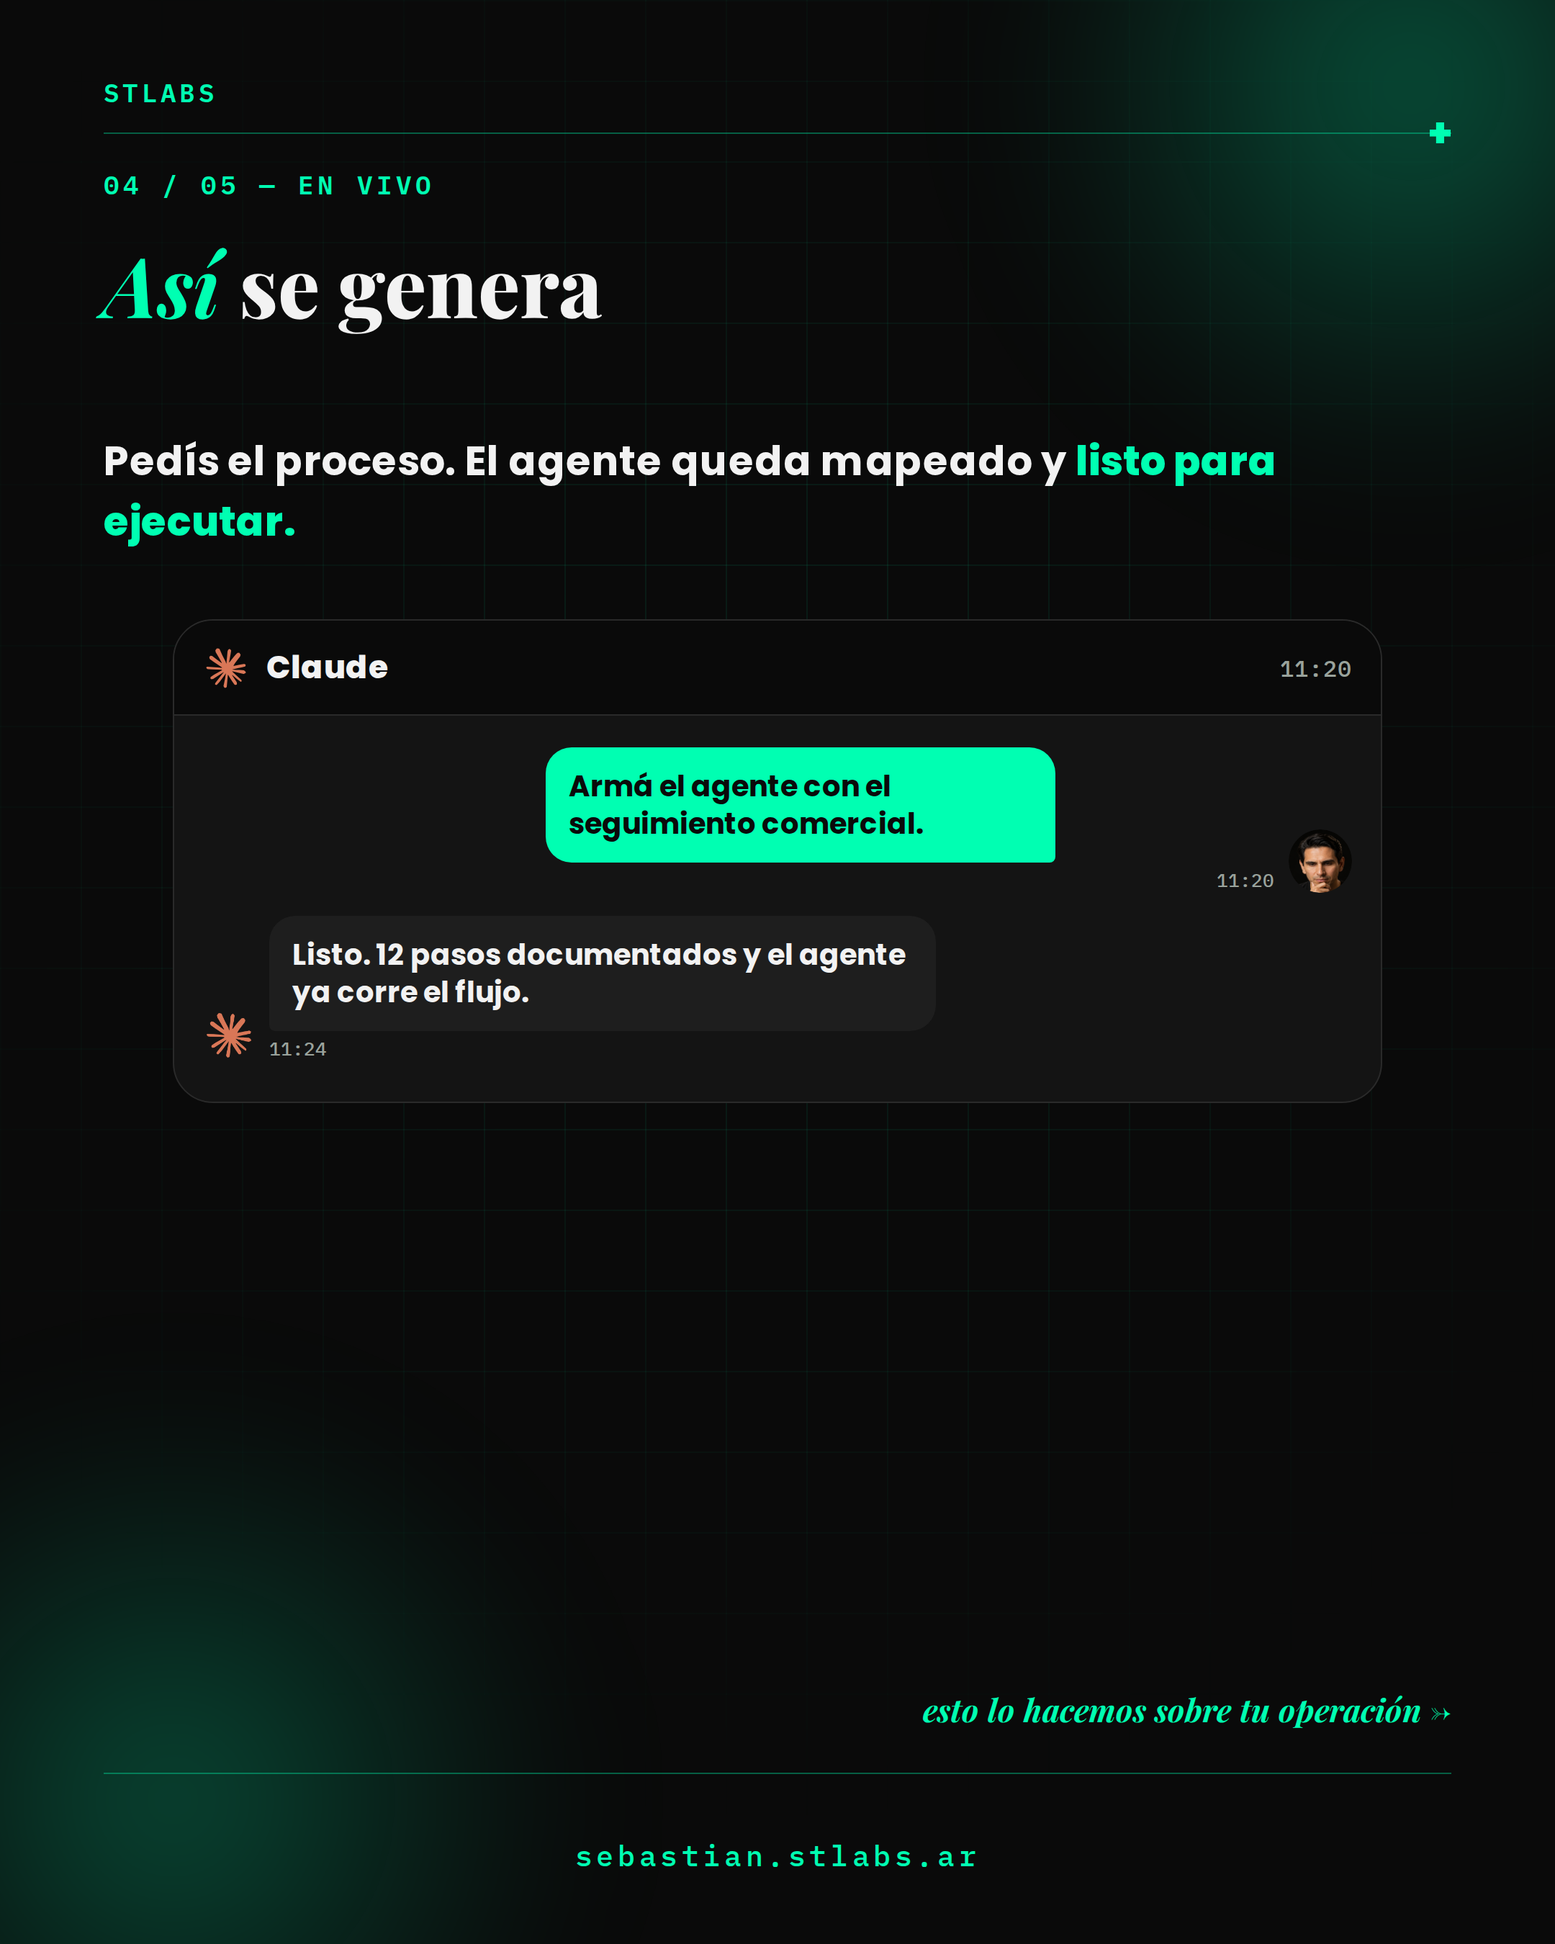
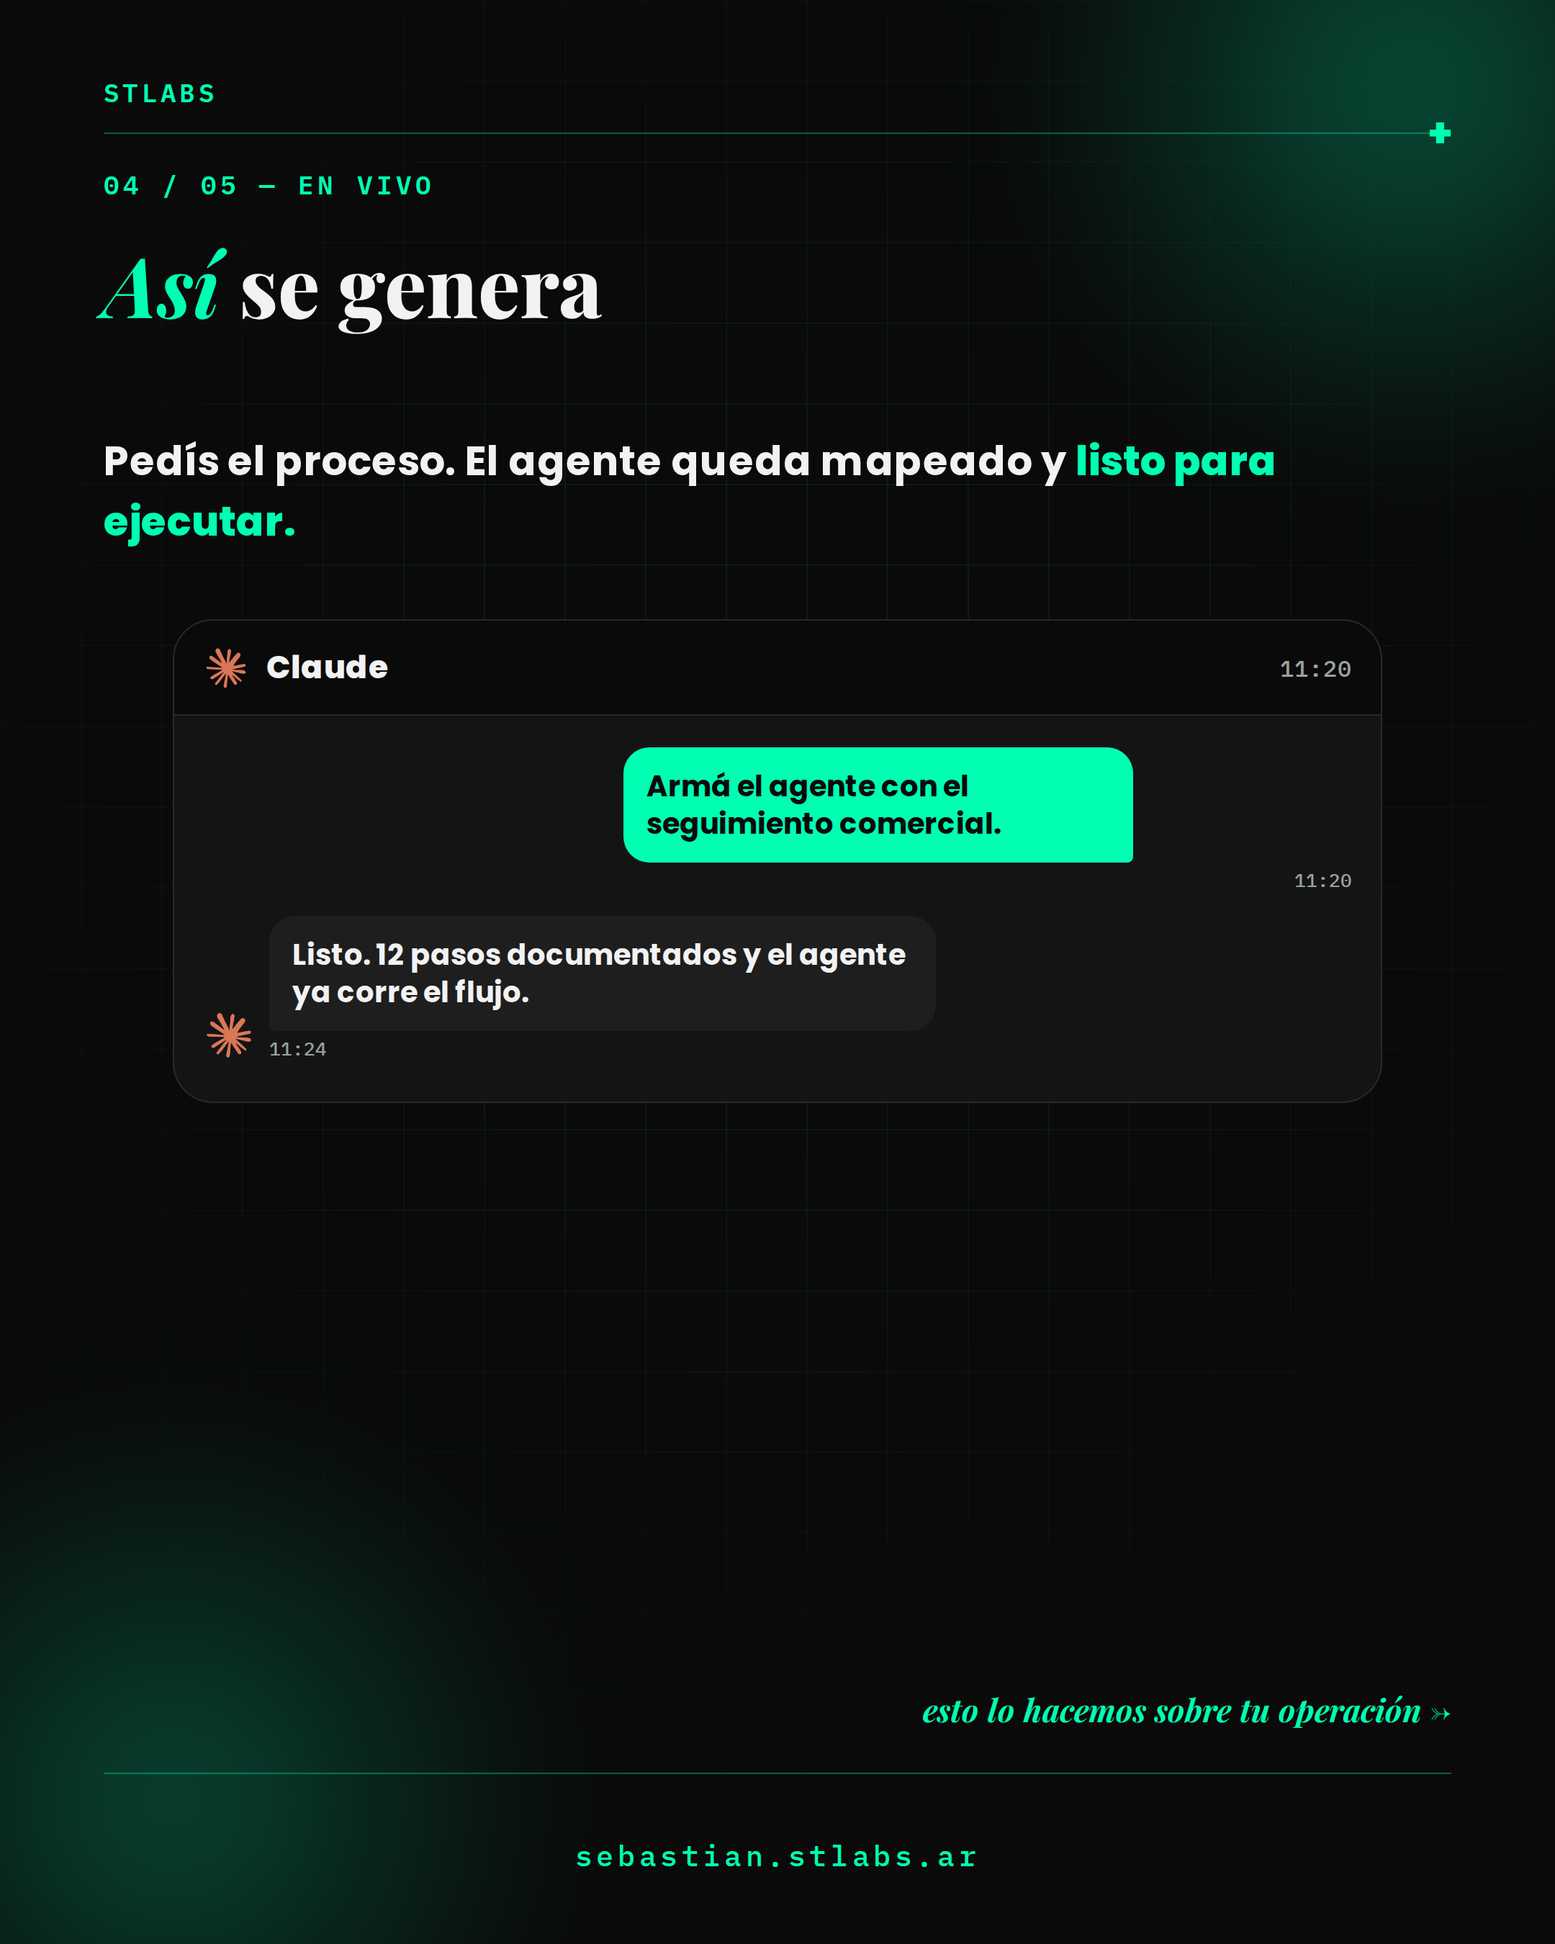
Quitar la cara de Sebastián del recuadro verde del chat

Changed region(s): [[0.3412, 0.3733, 0.7444, 0.4667], [0.8375, 0.4356, 0.8685, 0.4667]]

diff --git a/resultados/2026-08-18-nueva-forma-agentes/carrusel.html b/resultados/2026-08-18-nueva-forma-agentes/carrusel.html
@@ -238,4 +238,4 @@ html, body { background:#000; }
 }
 .send em { font-style:normal; color:#00FFB2; }
 </style></head>
-<body><div class="sheet"><section class="slide" data-id="01"><div class="tex"></div><div class="glow glow-tr"></div><div class="glow glow-bl"></div><div class="hline top"></div><div class="brand">STLabs</div><div class="kicker">01 / 05</div><div class="pill"><i></i>A medida</div><div class="firma">sebastian.stlabs.ar</div><div class="hero"></div><div class="hero-fade"></div><h1 class="display"><em>Así se genera</em><br>un agente<br><em>a medida.</em></h1><div class="clip dude"><div class="corners"><span class="tl"></span><span class="tr"></span><span class="bl"></span><span class="br"></span></div><img src="file:///workspace/builds/2026-08-18-nueva-forma-agentes/assets/pixel-dude.png" alt=""></div><div class="clip cf"><img class="claude" src="file:///workspace/builds/2026-08-18-nueva-forma-agentes/assets/claude.png" width="96" height="96" alt="" style="width:96px;height:96px;object-fit:contain;"></div><div class="cta-side">primero el proceso →</div></section><section class="slide" data-id="02"><div class="tex"></div><div class="glow glow-tr"></div><div class="glow glow-bl"></div><div class="hline top"></div><div class="hline bot"></div><div class="brand">STLabs</div><div class="plus">+</div><div class="kicker">01 / 05 — El proceso</div><div class="firma">sebastian.stlabs.ar</div><h1 class="h2">Los <em>3</em> pasos</h1><p class="sub">para generar un agente que arme tu operación.</p><div class="cards"><div class="card"><img src="file:///workspace/builds/2026-08-18-nueva-forma-agentes/assets/pixel-wrench.png" alt=""><div class="div"></div><div><h3>Mapear la operación</h3><p>Sacamos de tu cabeza cada paso, dueño y excepción.</p></div></div><div class="card"><img src="file:///workspace/builds/2026-08-18-nueva-forma-agentes/assets/pixel-cost.png" alt=""><div class="div"></div><div><h3>Documentar el flujo</h3><p>Queda escrito, claro y delegable. Sin improvisar.</p></div></div><div class="card"><img src="file:///workspace/builds/2026-08-18-nueva-forma-agentes/assets/pixel-bell.png" alt=""><div class="div"></div><div><h3>Generar el agente</h3><p>Lo armamos sobre ESE proceso, no sobre uno genérico.</p></div></div></div><div class="cta-side">y casi todos se saltean el primero →</div></section><section class="slide" data-id="03"><div class="tex"></div><div class="glow glow-tr"></div><div class="glow glow-bl"></div><div class="hline top"></div><div class="hline bot"></div><div class="brand">STLabs</div><div class="plus">+</div><div class="kicker">02 / 05 — Lo que se saltea</div><div class="firma">sebastian.stlabs.ar</div><h1 class="h2">Lo que casi<br><em>nadie</em> hace</h1><p class="sub">arrancan el agente sin mapa… y después <b style="color:#00FFB2">no escala.</b></p><div class="bubble">Poné un agente y que resuelva. El proceso lo vemos después.</div><div class="tag80"><i></i>9 de 10</div><div class="metric"><div class="lab">Primera sesión de mapeo · 1 operación</div><div class="num">12<span>pasos</span></div><div class="foot">y de ese mapa nace el agente</div></div><div class="cta-side">el método correcto es al revés →</div></section><section class="slide" data-id="04"><div class="tex"></div><div class="glow glow-tr"></div><div class="glow glow-bl"></div><div class="hline top"></div><div class="hline bot"></div><div class="brand">STLabs</div><div class="plus">+</div><div class="kicker">03 / 05 — El método</div><div class="firma">sebastian.stlabs.ar</div><h1 class="h2">El <em>método</em></h1><p class="sub">Primero el mapa. Después se genera el agente.</p><div class="eq"><div class="eq-item"><div class="eq-box"><svg viewBox="0 0 64 64" width="88" height="88"><rect x="8" y="8" width="48" height="14" rx="4" fill="none" stroke="#00FFB2" stroke-width="3"/><rect x="8" y="28" width="30" height="14" rx="4" fill="none" stroke="#00FFB2" stroke-width="3"/><rect x="8" y="48" width="40" height="14" rx="4" fill="none" stroke="#00FFB2" stroke-width="3"/><path d="M32 22v6M23 42v6" fill="none" stroke="#00FFB2" stroke-width="3"/></svg></div><strong>El mapa</strong><em>tu operación</em></div><div class="plus-lg">+</div><div class="eq-item"><div class="eq-box"><img class="claude" src="file:///workspace/builds/2026-08-18-nueva-forma-agentes/assets/claude.png" width="96" height="96" alt="" style="width:96px;height:96px;object-fit:contain;"></div><strong>Claude</strong><em>lo genera</em></div></div><div class="result">= tu agente a medida</div><div class="cta-side">así se ve cuando lo pedís →</div></section><section class="slide" data-id="05"><div class="tex"></div><div class="glow glow-tr"></div><div class="glow glow-bl"></div><div class="hline top"></div><div class="hline bot"></div><div class="brand">STLabs</div><div class="plus">+</div><div class="kicker">04 / 05 — En vivo</div><div class="firma">sebastian.stlabs.ar</div><h1 class="h2"><em>Así</em> se genera</h1><p class="sub">Pedís el proceso. El agente queda mapeado y <b style="color:#00FFB2">listo para ejecutar.</b></p><div class="phone"><div class="ph-head"><img class="claude" src="file:///workspace/builds/2026-08-18-nueva-forma-agentes/assets/claude.png" width="32" height="32" alt="" style="width:32px;height:32px;object-fit:contain;"><div class="nm">Claude</div><div class="hr">11:20</div></div><div class="ph-body"><div class="row me"><div><div class="bubble-u">Armá el agente con el seguimiento comercial.</div><div class="ts" style="text-align:right">11:20</div></div><img class="av" src="file:///workspace/builds/2026-08-18-nueva-forma-agentes/assets/sebas-avatar.png" alt=""></div><div class="row"><img class="claude" src="file:///workspace/builds/2026-08-18-nueva-forma-agentes/assets/claude.png" width="36" height="36" alt="" style="width:36px;height:36px;object-fit:contain;"><div><div class="bubble-a">Listo. 12 pasos documentados y el agente ya corre el flujo.</div><div class="ts">11:24</div></div></div></div></div><div class="cta-side">esto lo hacemos sobre tu operación →</div></section><section class="slide" data-id="06"><div class="tex"></div><div class="glow glow-tr"></div><div class="glow glow-bl"></div><div class="hline top"></div><div class="hline bot"></div><div class="brand">STLabs</div><div class="kicker"></div><div class="pill"><i></i>A medida</div><div class="firma">sebastian.stlabs.ar</div><h1 class="ask">¿Querés que te genere<br>el <em>agente</em> a medida?</h1><p class="pre">Mapeo tu operación, documento el flujo y te dejo el agente personalizado listo.</p><div class="kwbox"><span>PROCESO</span></div><div class="bottom-row"><div class="send">Comentá <em>PROCESO</em> y arrancamos la generación <em>→</em></div></div></section></div></body></html>
+<body><div class="sheet"><section class="slide" data-id="01"><div class="tex"></div><div class="glow glow-tr"></div><div class="glow glow-bl"></div><div class="hline top"></div><div class="brand">STLabs</div><div class="kicker">01 / 05</div><div class="pill"><i></i>A medida</div><div class="firma">sebastian.stlabs.ar</div><div class="hero"></div><div class="hero-fade"></div><h1 class="display"><em>Así se genera</em><br>un agente<br><em>a medida.</em></h1><div class="clip dude"><div class="corners"><span class="tl"></span><span class="tr"></span><span class="bl"></span><span class="br"></span></div><img src="file:///workspace/builds/2026-08-18-nueva-forma-agentes/assets/pixel-dude.png" alt=""></div><div class="clip cf"><img class="claude" src="file:///workspace/builds/2026-08-18-nueva-forma-agentes/assets/claude.png" width="96" height="96" alt="" style="width:96px;height:96px;object-fit:contain;"></div><div class="cta-side">primero el proceso →</div></section><section class="slide" data-id="02"><div class="tex"></div><div class="glow glow-tr"></div><div class="glow glow-bl"></div><div class="hline top"></div><div class="hline bot"></div><div class="brand">STLabs</div><div class="plus">+</div><div class="kicker">01 / 05 — El proceso</div><div class="firma">sebastian.stlabs.ar</div><h1 class="h2">Los <em>3</em> pasos</h1><p class="sub">para generar un agente que arme tu operación.</p><div class="cards"><div class="card"><img src="file:///workspace/builds/2026-08-18-nueva-forma-agentes/assets/pixel-wrench.png" alt=""><div class="div"></div><div><h3>Mapear la operación</h3><p>Sacamos de tu cabeza cada paso, dueño y excepción.</p></div></div><div class="card"><img src="file:///workspace/builds/2026-08-18-nueva-forma-agentes/assets/pixel-cost.png" alt=""><div class="div"></div><div><h3>Documentar el flujo</h3><p>Queda escrito, claro y delegable. Sin improvisar.</p></div></div><div class="card"><img src="file:///workspace/builds/2026-08-18-nueva-forma-agentes/assets/pixel-bell.png" alt=""><div class="div"></div><div><h3>Generar el agente</h3><p>Lo armamos sobre ESE proceso, no sobre uno genérico.</p></div></div></div><div class="cta-side">y casi todos se saltean el primero →</div></section><section class="slide" data-id="03"><div class="tex"></div><div class="glow glow-tr"></div><div class="glow glow-bl"></div><div class="hline top"></div><div class="hline bot"></div><div class="brand">STLabs</div><div class="plus">+</div><div class="kicker">02 / 05 — Lo que se saltea</div><div class="firma">sebastian.stlabs.ar</div><h1 class="h2">Lo que casi<br><em>nadie</em> hace</h1><p class="sub">arrancan el agente sin mapa… y después <b style="color:#00FFB2">no escala.</b></p><div class="bubble">Poné un agente y que resuelva. El proceso lo vemos después.</div><div class="tag80"><i></i>9 de 10</div><div class="metric"><div class="lab">Primera sesión de mapeo · 1 operación</div><div class="num">12<span>pasos</span></div><div class="foot">y de ese mapa nace el agente</div></div><div class="cta-side">el método correcto es al revés →</div></section><section class="slide" data-id="04"><div class="tex"></div><div class="glow glow-tr"></div><div class="glow glow-bl"></div><div class="hline top"></div><div class="hline bot"></div><div class="brand">STLabs</div><div class="plus">+</div><div class="kicker">03 / 05 — El método</div><div class="firma">sebastian.stlabs.ar</div><h1 class="h2">El <em>método</em></h1><p class="sub">Primero el mapa. Después se genera el agente.</p><div class="eq"><div class="eq-item"><div class="eq-box"><svg viewBox="0 0 64 64" width="88" height="88"><rect x="8" y="8" width="48" height="14" rx="4" fill="none" stroke="#00FFB2" stroke-width="3"/><rect x="8" y="28" width="30" height="14" rx="4" fill="none" stroke="#00FFB2" stroke-width="3"/><rect x="8" y="48" width="40" height="14" rx="4" fill="none" stroke="#00FFB2" stroke-width="3"/><path d="M32 22v6M23 42v6" fill="none" stroke="#00FFB2" stroke-width="3"/></svg></div><strong>El mapa</strong><em>tu operación</em></div><div class="plus-lg">+</div><div class="eq-item"><div class="eq-box"><img class="claude" src="file:///workspace/builds/2026-08-18-nueva-forma-agentes/assets/claude.png" width="96" height="96" alt="" style="width:96px;height:96px;object-fit:contain;"></div><strong>Claude</strong><em>lo genera</em></div></div><div class="result">= tu agente a medida</div><div class="cta-side">así se ve cuando lo pedís →</div></section><section class="slide" data-id="05"><div class="tex"></div><div class="glow glow-tr"></div><div class="glow glow-bl"></div><div class="hline top"></div><div class="hline bot"></div><div class="brand">STLabs</div><div class="plus">+</div><div class="kicker">04 / 05 — En vivo</div><div class="firma">sebastian.stlabs.ar</div><h1 class="h2"><em>Así</em> se genera</h1><p class="sub">Pedís el proceso. El agente queda mapeado y <b style="color:#00FFB2">listo para ejecutar.</b></p><div class="phone"><div class="ph-head"><img class="claude" src="file:///workspace/builds/2026-08-18-nueva-forma-agentes/assets/claude.png" width="32" height="32" alt="" style="width:32px;height:32px;object-fit:contain;"><div class="nm">Claude</div><div class="hr">11:20</div></div><div class="ph-body"><div class="row me"><div><div class="bubble-u">Armá el agente con el seguimiento comercial.</div><div class="ts" style="text-align:right">11:20</div></div></div><div class="row"><img class="claude" src="file:///workspace/builds/2026-08-18-nueva-forma-agentes/assets/claude.png" width="36" height="36" alt="" style="width:36px;height:36px;object-fit:contain;"><div><div class="bubble-a">Listo. 12 pasos documentados y el agente ya corre el flujo.</div><div class="ts">11:24</div></div></div></div></div><div class="cta-side">esto lo hacemos sobre tu operación →</div></section><section class="slide" data-id="06"><div class="tex"></div><div class="glow glow-tr"></div><div class="glow glow-bl"></div><div class="hline top"></div><div class="hline bot"></div><div class="brand">STLabs</div><div class="kicker"></div><div class="pill"><i></i>A medida</div><div class="firma">sebastian.stlabs.ar</div><h1 class="ask">¿Querés que te genere<br>el <em>agente</em> a medida?</h1><p class="pre">Mapeo tu operación, documento el flujo y te dejo el agente personalizado listo.</p><div class="kwbox"><span>PROCESO</span></div><div class="bottom-row"><div class="send">Comentá <em>PROCESO</em> y arrancamos la generación <em>→</em></div></div></section></div></body></html>

diff --git a/builds/2026-08-18-nueva-forma-agentes/generate.py b/builds/2026-08-18-nueva-forma-agentes/generate.py
@@ -371,7 +371,6 @@ def slide_04() -> str:
 
 
 def slide_05() -> str:
-    av = uri(A / "sebas-avatar.png")
     return (
         '<section class="slide" data-id="05">'
         + chrome("04 / 05 — En vivo")
@@ -380,7 +379,7 @@ def slide_05() -> str:
         + '<div class="phone"><div class="ph-head">'
         f'{claude_img(32)}<div class="nm">Claude</div><div class="hr">11:20</div></div>'
         '<div class="ph-body">'
-        f'<div class="row me"><div><div class="bubble-u">Armá el agente con el seguimiento comercial.</div><div class="ts" style="text-align:right">11:20</div></div><img class="av" src="{av}" alt=""></div>'
+        '<div class="row me"><div><div class="bubble-u">Armá el agente con el seguimiento comercial.</div><div class="ts" style="text-align:right">11:20</div></div></div>'
         f'<div class="row">{claude_img(36)}<div><div class="bubble-a">Listo. 12 pasos documentados y el agente ya corre el flujo.</div><div class="ts">11:24</div></div></div>'
         "</div></div>"
         + '<div class="cta-side">esto lo hacemos sobre tu operación →</div>'

diff --git a/resultados/2026-08-18-nueva-forma-agentes/generate.py b/resultados/2026-08-18-nueva-forma-agentes/generate.py
@@ -371,7 +371,6 @@ def slide_04() -> str:
 
 
 def slide_05() -> str:
-    av = uri(A / "sebas-avatar.png")
     return (
         '<section class="slide" data-id="05">'
         + chrome("04 / 05 — En vivo")
@@ -380,7 +379,7 @@ def slide_05() -> str:
         + '<div class="phone"><div class="ph-head">'
         f'{claude_img(32)}<div class="nm">Claude</div><div class="hr">11:20</div></div>'
         '<div class="ph-body">'
-        f'<div class="row me"><div><div class="bubble-u">Armá el agente con el seguimiento comercial.</div><div class="ts" style="text-align:right">11:20</div></div><img class="av" src="{av}" alt=""></div>'
+        '<div class="row me"><div><div class="bubble-u">Armá el agente con el seguimiento comercial.</div><div class="ts" style="text-align:right">11:20</div></div></div>'
         f'<div class="row">{claude_img(36)}<div><div class="bubble-a">Listo. 12 pasos documentados y el agente ya corre el flujo.</div><div class="ts">11:24</div></div></div>'
         "</div></div>"
         + '<div class="cta-side">esto lo hacemos sobre tu operación →</div>'
